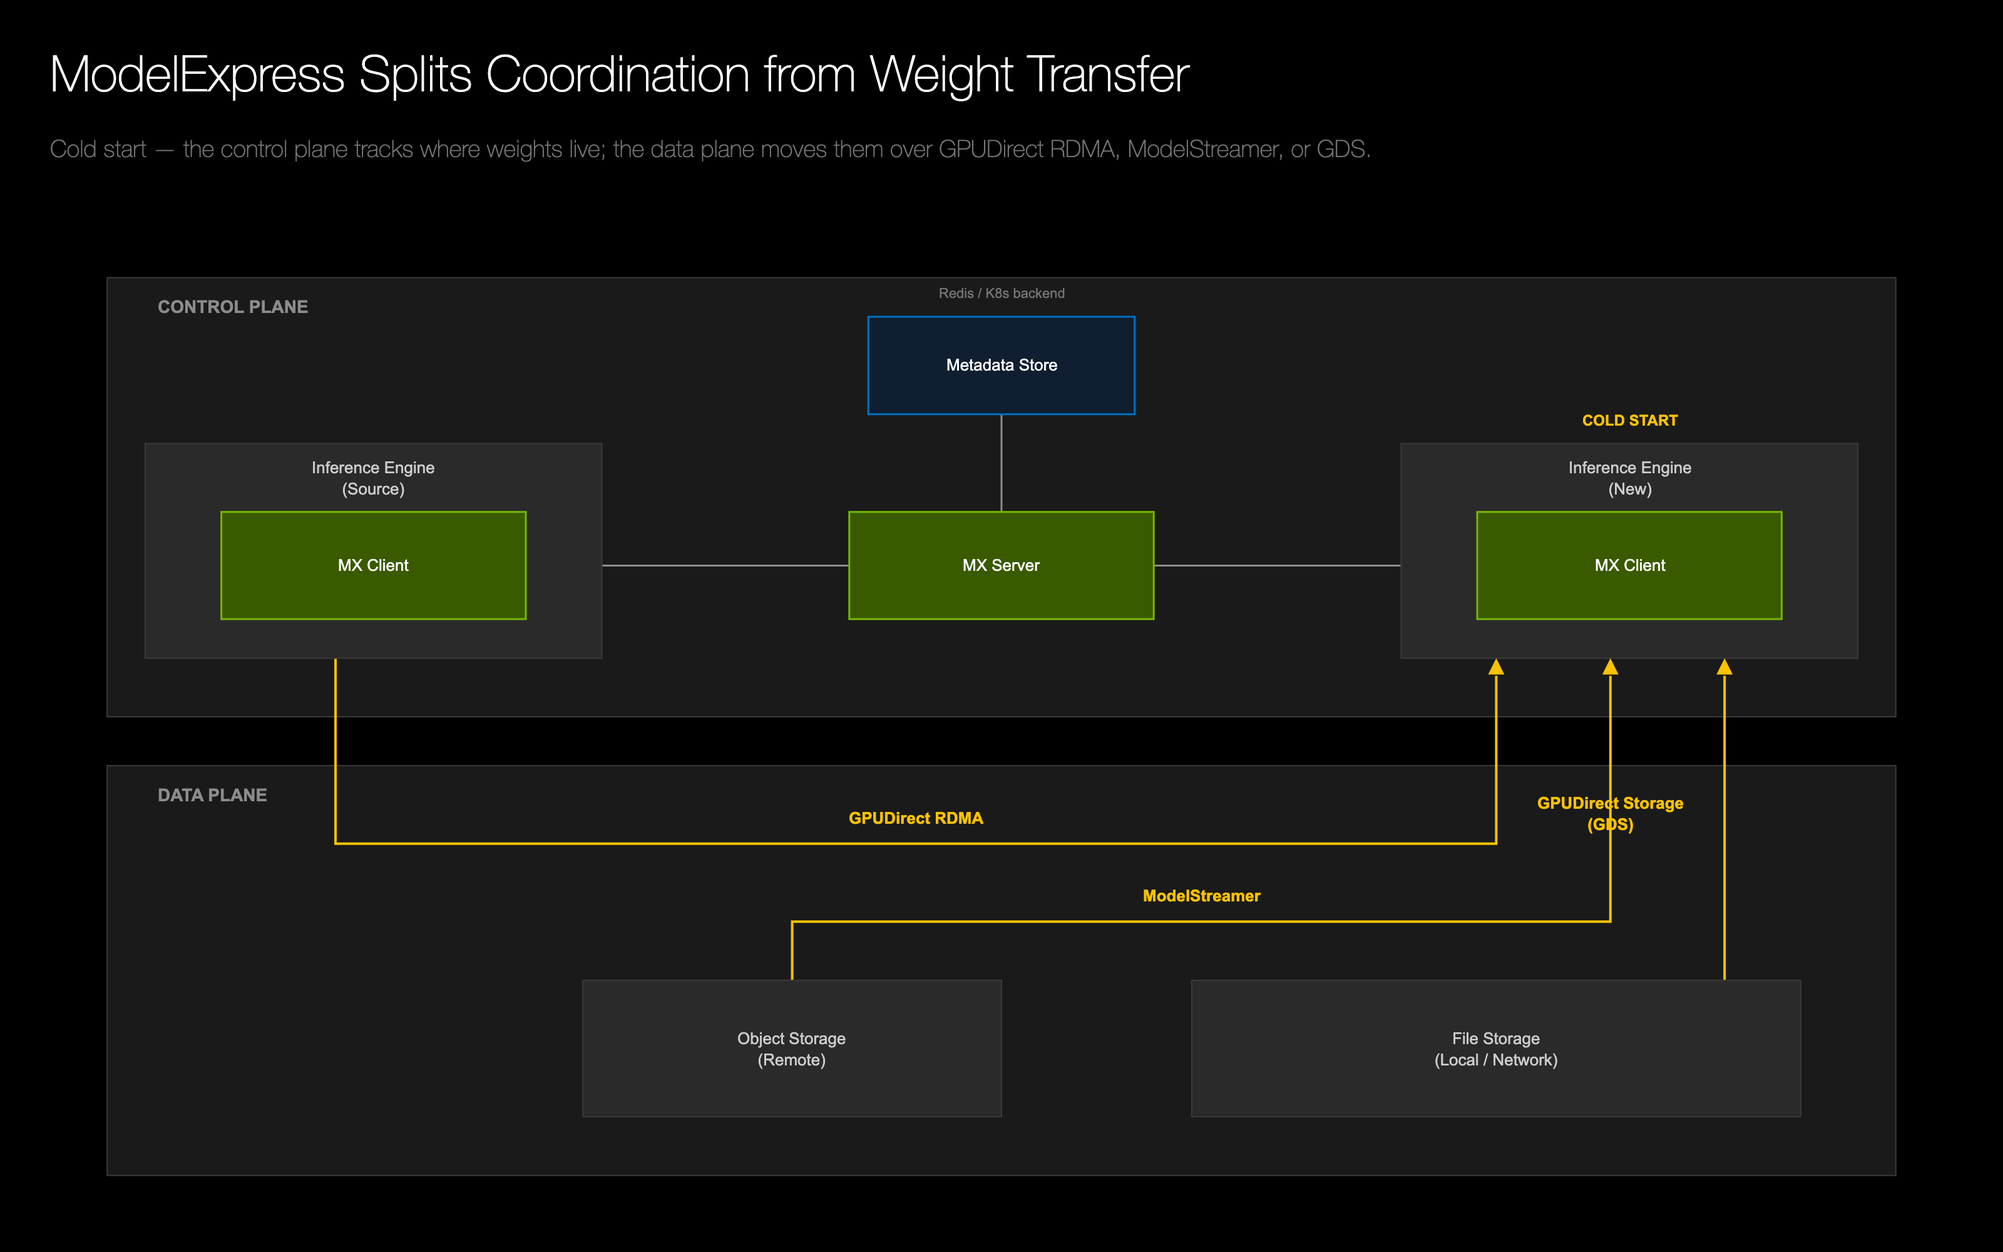
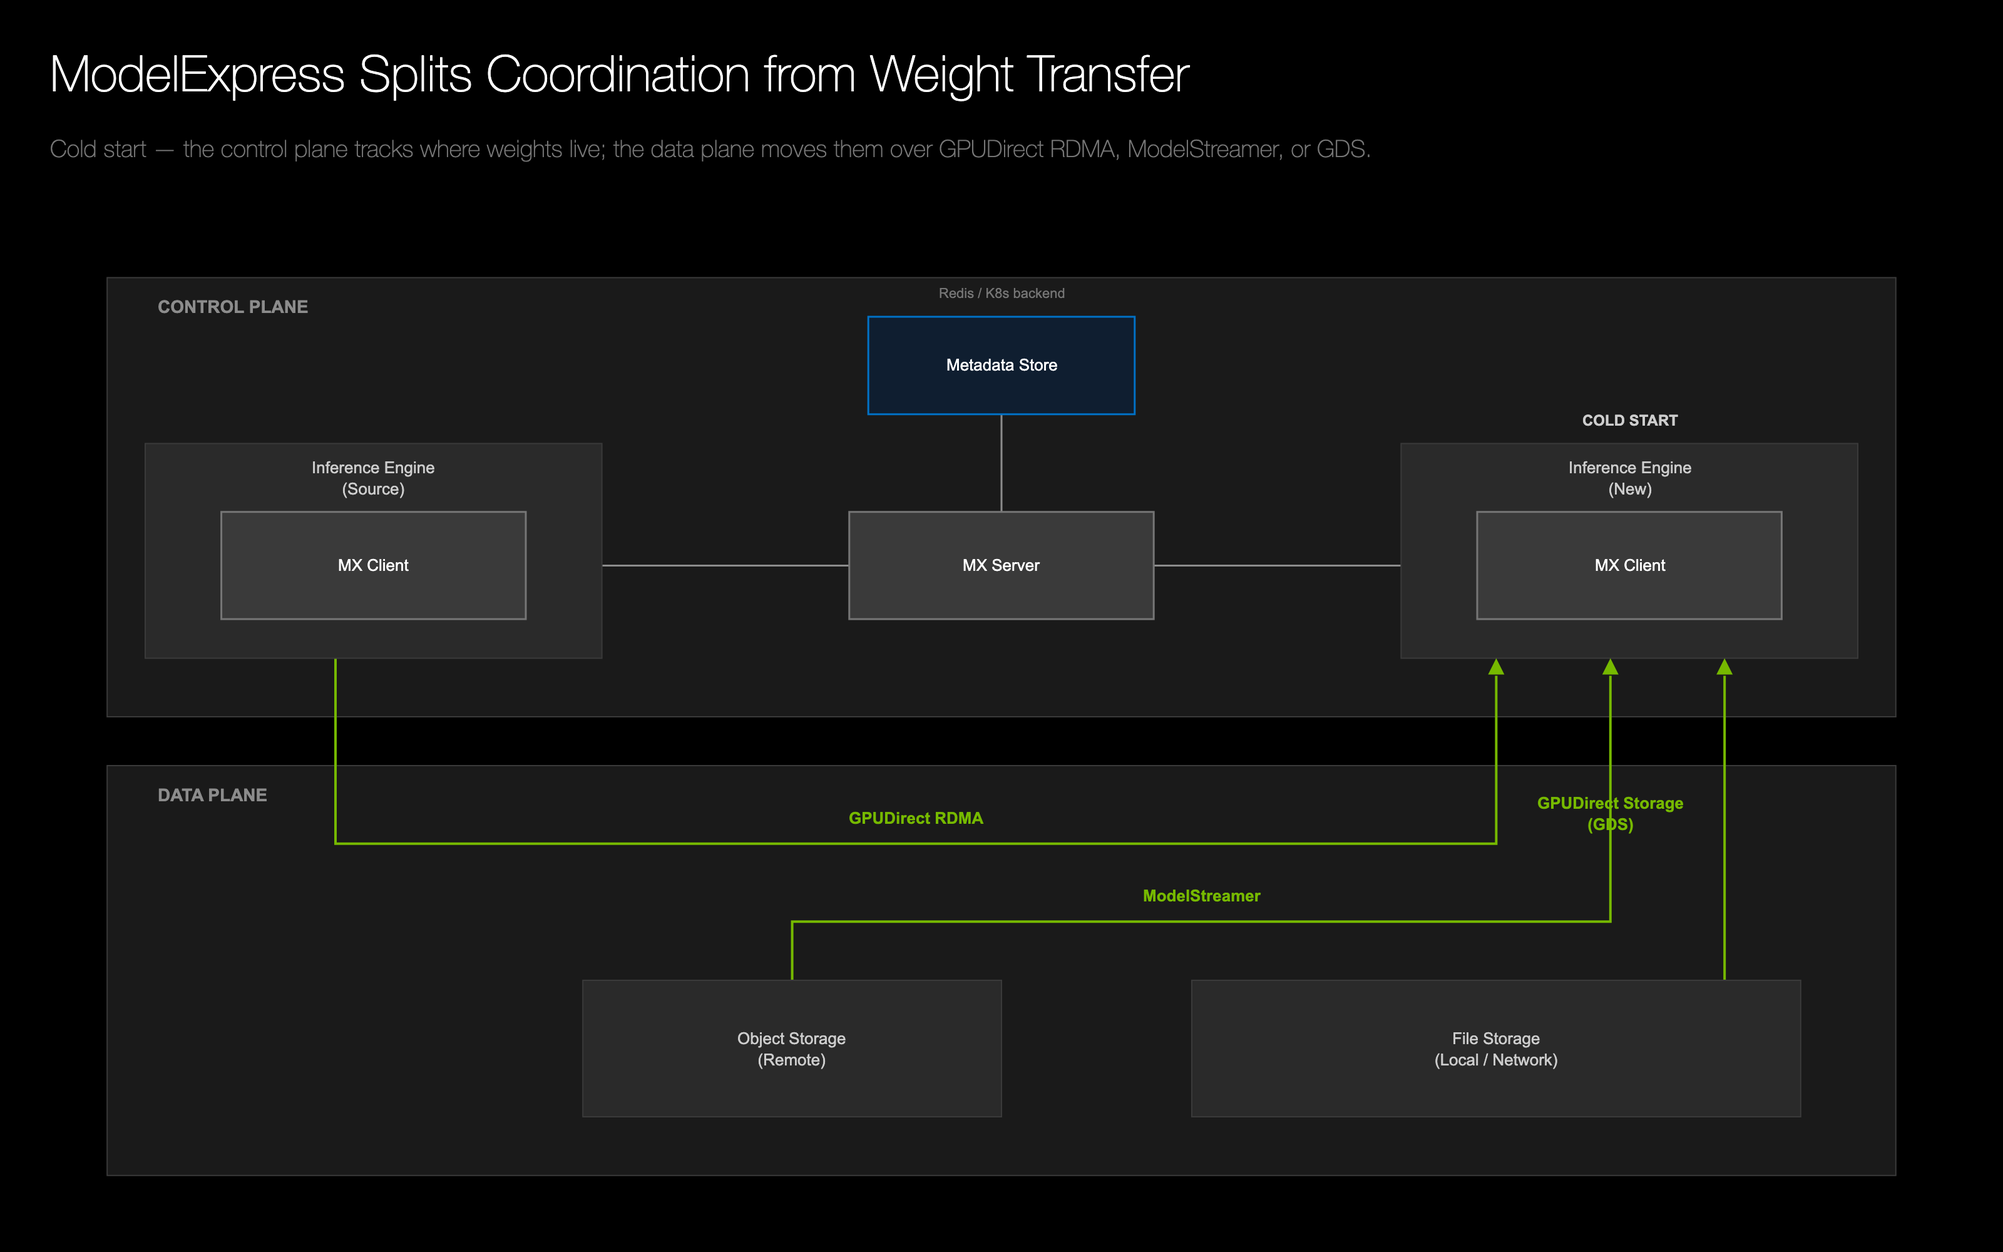
docs(drafts): harmonize color semantics across cold-start figure set
Bring the six ModelExpress / cold-start figures onto one color convention,
anchored by fig-1 (green = the peer-to-peer data-plane weight-transfer flow)
and fig-4 (gold = the warmup phase).

- fig-3: recolor the data-plane weight-transfer flows (GPUDirect RDMA,
  ModelStreamer, GDS) green to match fig-1 and fig-3's own docstring, and give
  the MX Client / MX Server boxes a neutral elevated structural surface instead
  of green fills. Metadata store stays cpu_blue. Docstring + README reconciled.
- fig-6: recolor the cold JIT-cache warmup cluster from coral to gold to match
  fig-4's warmup phase; the MX P2P weight load stays the single green accent.
  In-bar labels are black-on-gold for WCAG AA. Restore the full subtitle
  (fp8 KV cache detail + fuller prose tail) that had been trimmed.
- fig-1, fig-2, fig-4, fig-5: verified against the convention; semantics
  unchanged (green is the hero flow / MX win only; coral is the baseline).
- Emit an SVG for every figure (fig-1 / fig-2 / fig-6 added) for set parity.

Green is now reserved set-wide for the hero data-plane weight-transfer flow /
ModelExpress win; warmup is gold in both fig-4 and fig-6. All six lint at
0 errors, 100.0 / 100.

diff --git a/drafts/modelexpress-coldstart/fig-6/gen_fig_6_coldstart_anatomy.py b/drafts/modelexpress-coldstart/fig-6/gen_fig_6_coldstart_anatomy.py
@@ -8,19 +8,21 @@ start of a DeepSeek-V4-Pro / vLLM deployment into its eight phases, anchored by
 a large "420s" KPI. ModelExpress delivers weights peer-to-peer (Model load via
 MX P2P is only 11 s / 2.6 %, the single green accent), so the cost shifts almost
 entirely to the cold JIT-cache warmup cluster (profiling + DeepGEMM compile +
-CUDA graph capture = 350 s / 83 %, rendered in the coral cost family).
+CUDA graph capture = 350 s / 83 %, rendered in the gold warmup family so it
+reads the same as the warmup phase in fig-4).
 
 Restyle of the reference light-theme breakdown bar into Dynamo Dark:
     - pure-black ground, token palette only, border-radius 0
     - display / hero title treatment (Helvetica Neue Light, title case)
-    - single green accent on the ModelExpress weight-load phase; the warmup
-      cluster carries the coral "cost" role; setup phases recede to grey
+    - single green accent on the ModelExpress weight-load phase (the hero
+      data-plane weight load); the JIT-cache warmup cluster carries the gold
+      "warmup" role, matching fig-4; setup phases recede to grey
     - real seconds x-axis so the minute ticks align exactly to the bar
 
 Data (durations in seconds) is the source of truth; percentages are derived.
 
 Usage:
-    python3 gen_fig_6_coldstart_anatomy.py   # -> images/fig-6-coldstart-anatomy.png
+    python3 gen_fig_6_coldstart_anatomy.py   # -> images/fig-6-coldstart-anatomy.{png,svg}
 """
 
 from __future__ import annotations
@@ -41,8 +43,10 @@ TOTAL_SEC = 420  # observed total, start -> Application startup complete (7m)
 
 # Semantic roles decide color:
 #   grey  -> process / infra setup (recedes)
-#   green -> the ModelExpress win (single accent)
-#   coral -> the cold-JIT-cache warmup cost cluster (peak = brightest coral)
+#   green -> the ModelExpress win (single accent, hero data-plane weight load)
+#   gold  -> the cold-JIT-cache warmup cluster (peak = brightest gold), matching
+#            fig-4's warmup phase; coral stays reserved for a baseline/slow path,
+#            which this single optimized run does not contain
 # Phases in time order. `place`: "in" = label inside the bar; "above" = leader
 # line + marker + duration above the bar (used for the narrow phases).
 SEGMENTS = [
@@ -118,11 +122,11 @@ def main() -> None:
     font_mono = tokens["typography"]["font_family_mono"]
 
     green = colors["accent"]["dynamo_green"]  # ModelExpress win (accent)
-    coral = colors["accent"]["coral"]  # peak warmup phase
-    coral_muted = colors["chart_fills"][7]  # #702828 -- flanking warmup
+    warmup = colors["accent"]["fluorite"]  # peak warmup phase (gold, matches fig-4)
+    warmup_muted = colors["chart_fills"][2]  # #9a7800 -- flanking warmup (muted gold)
     grey = colors["text"]["medium"]  # #8c8c8c -- setup (neutral)
     subtle = colors["border"]["subtle"]  # #3a3a3a -- separators / ticks
-    black = colors["background"]["primary"]  # #000000 -- hairline gaps
+    black = colors["background"]["primary"]  # #000000 -- hairline gaps + in-bar text
     text_primary = colors["text"]["primary"]
     text_secondary = colors["text"]["secondary"]
     text_muted = colors["text"]["muted"]
@@ -130,8 +134,8 @@ def main() -> None:
     role_color = {
         "setup": grey,
         "win": green,
-        "cost": coral_muted,
-        "peak": coral,
+        "cost": warmup_muted,
+        "peak": warmup,
     }
 
     def pct(dur: int) -> float:
@@ -206,8 +210,10 @@ def main() -> None:
                 layer="above",
             )
         )
-        # in-bar label for the wide phases
+        # in-bar label for the wide phases. The wide phases are the gold warmup
+        # cluster, so the label sits black-on-gold (AA on both gold shades).
         if s["place"] == "in":
+            in_label_color = black if s["role"] in ("cost", "peak") else text_primary
             annotations.append(
                 dict(
                     xref="x",
@@ -219,7 +225,7 @@ def main() -> None:
                     text=f"{s['inbar']} · {s['dur']}s",
                     showarrow=False,
                     font=dict(
-                        family=font_mono, size=15, color=text_primary, weight=500
+                        family=font_mono, size=15, color=in_label_color, weight=500
                     ),
                 )
             )
@@ -431,9 +437,9 @@ def main() -> None:
             font=dict(family=HERO_FONT, size=40, color=text_primary, weight=300),
             subtitle=dict(
                 text=(
-                    "DeepSeek-V4-Pro · vLLM 0.23.0 · TP8 + EP on one 8-GPU "
-                    "node · load_format=modelexpress — weights arrive P2P, "
-                    "JIT caches start cold."
+                    "DeepSeek-V4-Pro · vLLM 0.23.0 · TP8 + EP + fp8 KV cache "
+                    "on one 8-GPU node · load_format=modelexpress — weights "
+                    "arrive peer-to-peer, but every JIT kernel cache starts empty."
                 ),
                 font=dict(family=HERO_FONT, size=19, color=text_muted, weight=300),
             ),
@@ -452,10 +458,14 @@ def main() -> None:
         showlegend=False,
     )
 
-    out = Path(__file__).parent / "images" / "fig-6-coldstart-anatomy.png"
-    out.parent.mkdir(parents=True, exist_ok=True)
-    fig.write_image(str(out), scale=2)
-    print(f"Wrote {out}")
+    out_dir = Path(__file__).parent / "images"
+    out_dir.mkdir(parents=True, exist_ok=True)
+    png = out_dir / "fig-6-coldstart-anatomy.png"
+    svg = out_dir / "fig-6-coldstart-anatomy.svg"
+    fig.write_image(str(png), scale=2)
+    fig.write_image(str(svg))
+    print(f"Wrote {png}")
+    print(f"Wrote {svg}")
 
 
 if __name__ == "__main__":

diff --git a/drafts/modelexpress-coldstart/fig-3/gen_fig_3_modelexpress.py b/drafts/modelexpress-coldstart/fig-3/gen_fig_3_modelexpress.py
@@ -20,9 +20,13 @@ Dynamo Dark rethink:
     black, so the plane separation reads structurally instead of via tinted
     backgrounds.
   - Green (#76b900) is the single selective accent, reserved for the
-    ModelExpress software components (MX Server + MX Clients) — the subject.
-  - Emerald marks the metadata database; fluorite carries the data-plane
-    weight-transfer flows; thin grey lines carry recessive control wiring.
+    data-plane weight-transfer flows (GPUDirect RDMA + ModelStreamer + GDS) —
+    the fast path ModelExpress accelerates, matching fig-1's data-plane green.
+  - The ModelExpress software components (MX Server + MX Clients) take a
+    neutral, elevated structural surface (never green fills), so green stays
+    the one thing that reads as the accelerated flow.
+  - cpu_blue marks the control-plane metadata store; thin grey lines carry the
+    recessive control wiring.
   - All connectors are orthogonal (right angles only); every coordinate is
     computed from named constants; the three data paths converge on the New
     engine's bottom edge with arrowheads on exact edges.
@@ -147,18 +151,17 @@ def main() -> None:
     template = build_template(tokens)
     colors = tokens["colors"]
 
-    green = colors["accent"]["dynamo_green"]  # ModelExpress components
-    green_fill = colors["fills"]["green"]
+    green = colors["accent"]["dynamo_green"]  # data-plane weight-transfer flows
     cpu_blue = colors["accent"]["cpu_blue"]  # control-plane metadata store
     blue_fill = colors["fills"]["blue"]
-    fluorite = colors["accent"]["fluorite"]  # data-plane weight flows
     subtle = colors["border"]["subtle"]  # hairline borders
     surface = colors["background"]["surface"]  # plane band fill
     surface_alt = colors["background"]["surface_alt"]  # component card fill
+    elevated = colors["background"]["elevated"]  # MX component cards (neutral)
     text_primary = colors["text"]["primary"]
     text_secondary = colors["text"]["secondary"]
     text_medium = colors["text"]["medium"]
-    text_muted = colors["text"]["muted"]
+    text_muted = colors["text"]["muted"]  # neutral border for MX component cards
 
     fig = go.Figure()
     shapes: list[dict] = []
@@ -226,7 +229,7 @@ def main() -> None:
     SRC_CLIENT = (9.0, MX_Y0, 25.0, MX_Y1)
     NEW_CLIENT = (75.0, MX_Y0, 91.0, MX_Y1)
     for x0, y0, x1, y1 in (SRC_CLIENT, NEW_CLIENT):
-        _box(shapes, x0, y0, x1, y1, border=green, fill=green_fill, width=1.5)
+        _box(shapes, x0, y0, x1, y1, border=text_muted, fill=elevated, width=1.5)
         _label(
             annotations,
             (x0 + x1) / 2,
@@ -239,7 +242,7 @@ def main() -> None:
 
     # MX Server (center).
     SRV = (42.0, MX_Y0, 58.0, MX_Y1)
-    _box(shapes, *SRV, border=green, fill=green_fill, width=1.5)
+    _box(shapes, *SRV, border=text_muted, fill=elevated, width=1.5)
     _label(
         annotations,
         (SRV[0] + SRV[2]) / 2,
@@ -324,7 +327,7 @@ def main() -> None:
             (TIP_RDMA, y_rdma),
             (TIP_RDMA, NEW_BOTTOM),
         ],
-        color=fluorite,
+        color=green,
     )
 
     # ModelStreamer: Object storage → New engine.
@@ -334,11 +337,11 @@ def main() -> None:
         fig,
         annotations,
         [(obj_cx, OBJ[3]), (obj_cx, y_ms), (TIP_MS, y_ms), (TIP_MS, NEW_BOTTOM)],
-        color=fluorite,
+        color=green,
     )
 
     # GPUDirect Storage (GDS): File storage → New engine (straight vertical).
-    _flow(fig, annotations, [(TIP_GDS, FILE[3]), (TIP_GDS, NEW_BOTTOM)], color=fluorite)
+    _flow(fig, annotations, [(TIP_GDS, FILE[3]), (TIP_GDS, NEW_BOTTOM)], color=green)
 
     # Flow labels (bound to the fluorite flow color).
     _label(
@@ -346,7 +349,7 @@ def main() -> None:
         (src_out_x + TIP_RDMA) / 2,
         y_rdma + 2.6,
         "<b>GPUDirect RDMA</b>",
-        color=fluorite,
+        color=green,
         size=13,
         weight=700,
     )
@@ -355,7 +358,7 @@ def main() -> None:
         (obj_cx + TIP_MS) / 2,
         y_ms + 2.6,
         "<b>ModelStreamer</b>",
-        color=fluorite,
+        color=green,
         size=13,
         weight=700,
     )
@@ -364,7 +367,7 @@ def main() -> None:
         TIP_GDS - 2.0,
         41.0,
         "<b>GPUDirect Storage<br>(GDS)</b>",
-        color=fluorite,
+        color=green,
         size=13,
         weight=700,
         anchor="right",
@@ -376,7 +379,7 @@ def main() -> None:
         (NEW[0] + NEW[2]) / 2,
         NEW[3] + 2.4,
         "<b>COLD START</b>",
-        color=fluorite,
+        color=text_secondary,
         size=12,
         weight=700,
     )

diff --git a/drafts/modelexpress-coldstart/fig-1/gen_fig_1_coldstart_sequence.py b/drafts/modelexpress-coldstart/fig-1/gen_fig_1_coldstart_sequence.py
@@ -27,7 +27,7 @@ case). All labels are protocol/API terms carried over from the reference
 tensor descriptors) -- no invented numbers. Renders deterministically.
 
 Usage:
-    python3 gen_fig_1_coldstart_sequence.py   # -> images/fig-1-modelexpress-coldstart.png
+    python3 gen_fig_1_coldstart_sequence.py   # -> images/fig-1-modelexpress-coldstart.{png,svg}
 """
 
 from __future__ import annotations
@@ -455,10 +455,14 @@ def main() -> None:
         showlegend=False,
     )
 
-    out = Path(__file__).parent / "images" / "fig-1-modelexpress-coldstart.png"
-    out.parent.mkdir(parents=True, exist_ok=True)
-    fig.write_image(str(out), scale=2)
-    print(f"Wrote {out}")
+    out_dir = Path(__file__).parent / "images"
+    out_dir.mkdir(parents=True, exist_ok=True)
+    png = out_dir / "fig-1-modelexpress-coldstart.png"
+    svg = out_dir / "fig-1-modelexpress-coldstart.svg"
+    fig.write_image(str(png), scale=2)
+    fig.write_image(str(svg))
+    print(f"Wrote {png}")
+    print(f"Wrote {svg}")
 
 
 if __name__ == "__main__":

diff --git a/drafts/modelexpress-coldstart/fig-2/gen_fig_2_rl_loop.py b/drafts/modelexpress-coldstart/fig-2/gen_fig_2_rl_loop.py
@@ -24,7 +24,7 @@ Title uses the Dynamo Dark display/hero treatment (Helvetica Neue Light,
 title case). Renders deterministically; no external data.
 
 Usage:
-    python3 gen_fig_2_rl_loop.py        # -> images/fig-2-rl-loop.png
+    python3 gen_fig_2_rl_loop.py        # -> images/fig-2-rl-loop.{png,svg}
 """
 
 from __future__ import annotations
@@ -210,10 +210,14 @@ def main() -> None:
         annotations=annotations,
     )
 
-    out = Path(__file__).parent / "images" / "fig-2-rl-loop.png"
-    out.parent.mkdir(parents=True, exist_ok=True)
-    fig.write_image(str(out), scale=2)
-    print(f"Wrote {out}")
+    out_dir = Path(__file__).parent / "images"
+    out_dir.mkdir(parents=True, exist_ok=True)
+    png = out_dir / "fig-2-rl-loop.png"
+    svg = out_dir / "fig-2-rl-loop.svg"
+    fig.write_image(str(png), scale=2)
+    fig.write_image(str(svg))
+    print(f"Wrote {png}")
+    print(f"Wrote {svg}")
 
 
 if __name__ == "__main__":

diff --git a/drafts/modelexpress-coldstart/fig-6/README.md b/drafts/modelexpress-coldstart/fig-6/README.md
@@ -6,13 +6,14 @@ reference light-theme figure into the **Dynamo Dark** aesthetic.
 **Takeaway:** ModelExpress delivers weights peer-to-peer in 11 s (2.6 %, the
 single green accent), so the 420 s cold start is now dominated by the cold
 JIT-cache warmup cluster — profiling + DeepGEMM compile + CUDA graph capture =
-350 s / 83 % — rendered in the coral "cost" family.
+350 s / 83 % — rendered in the gold "warmup" family (matching fig-4).
 
 ## Figure Inventory
 
 | File | Description |
 |---|---|
 | `images/fig-6-coldstart-anatomy.png` | Stacked single-row cold-start timeline with a 420 s KPI, 8 labeled phases, minute ticks, and a two-column breakdown legend (1600×840 @2x) |
+| `images/fig-6-coldstart-anatomy.svg` | Vector render (for Fern / Confluence embedding) |
 
 ## Type & Pathway
 
@@ -30,15 +31,17 @@ Phase durations in seconds; percentages derived (`dur / 420`). Order is time ord
 | Engine config & core spawn | 14 s | 3.3 % | setup → grey |
 | Worker spawn & distributed init | 17 s | 4.0 % | setup → grey |
 | Model load via MX P2P | 11 s | 2.6 % | **MX win → green (single accent)** |
-| Memory profiling (JIT wave) | 100 s | 23.8 % | cost → coral (muted) |
-| JIT warmup (DeepGEMM compile) | 142 s | 33.8 % | cost peak → coral |
-| CUDA graph capture | 108 s | 25.7 % | cost → coral (muted) |
+| Memory profiling (JIT wave) | 100 s | 23.8 % | warmup → gold (muted) |
+| JIT warmup (DeepGEMM compile) | 142 s | 33.8 % | warmup peak → gold |
+| CUDA graph capture | 108 s | 25.7 % | warmup → gold (muted) |
 | API server ready | 1 s | 0.2 % | setup → grey |
 | **Total** | **420 s (7 m)** | | |
 
 Color encodes role: grey recedes for process/infra setup, green marks the single
-ModelExpress win, and the coral family carries the cold-JIT-cache cost cluster
-(the peak DeepGEMM phase is the brightest coral).
+ModelExpress win, and the gold warmup family carries the cold-JIT-cache cluster
+(the peak DeepGEMM phase is the brightest gold) — the same gold used for the
+warmup phase in fig-4. Coral stays reserved for a baseline/slow path, which this
+single optimized run does not contain.
 
 ## Reproduce
 

diff --git a/drafts/modelexpress-coldstart/fig-3/README.md b/drafts/modelexpress-coldstart/fig-3/README.md
@@ -38,10 +38,14 @@ Dynamo Dark remake of the ModelExpress (MX) cold-start reference diagram.
   `layer="below"`) express the plane split structurally instead of via tinted
   backgrounds.
 - **Green** (`#76b900`) is the single selective accent — reserved for the
-  ModelExpress software components (MX Server + MX Clients), the subject.
-- **cpu_blue** marks the control-plane Metadata Store; **fluorite** carries the
-  data-plane weight-transfer flows. (Emerald was avoided next to NV green per
-  DESIGN.md; the three roles are three distinct hues.)
+  data-plane weight-transfer flows (GPUDirect RDMA + ModelStreamer + GDS), the
+  fast path ModelExpress accelerates. This matches fig-1, where green is the
+  peer-to-peer data-plane flow.
+- The ModelExpress software components (MX Server + MX Clients) take a neutral,
+  elevated structural surface (`#3a3a3a` card fill, muted-grey border) — never a
+  green fill — so green stays the one thing that reads as the accelerated flow.
+- **cpu_blue** marks the control-plane Metadata Store; thin grey lines carry the
+  recessive control wiring.
 - All connectors are orthogonal (right angles only); every coordinate is computed
   from named constants; the three data paths land on the New engine's bottom edge
   with arrowheads on exact edges.

diff --git a/drafts/modelexpress-coldstart/fig-2/README.md b/drafts/modelexpress-coldstart/fig-2/README.md
@@ -6,10 +6,11 @@ loop figure.
 | File | Description |
 |---|---|
 | `gen_fig_2_rl_loop.py` | Generator: 2x2 clockwise RL loop (Rollout → Reward → Trainer → Weight refit) with ModelExpress as the single green accent. Display/hero title treatment. |
-| `build.sh` | One-shot rebuild. Renders `images/fig-2-rl-loop.png`. |
+| `build.sh` | One-shot rebuild. Renders `images/fig-2-rl-loop.{png,svg}`. |
 | `design_tokens.yaml` | Canonical Dynamo Dark tokens (copied, not forked). |
 | `plotly_dynamo.py` | Canonical Plotly template helper (copied, not forked). |
 | `images/fig-2-rl-loop.png` | Rendered figure (1600×900, scale=2). |
+| `images/fig-2-rl-loop.svg` | Vector render (for Fern / Confluence embedding). |
 
 ## Reproduce
 

diff --git a/drafts/modelexpress-coldstart/fig-1/README.md b/drafts/modelexpress-coldstart/fig-1/README.md
@@ -12,6 +12,7 @@ server entirely).
 |---|---|---|
 | `gen_fig_1_coldstart_sequence.py` | Sequence diagram: source registers → target discovers → RDMA weight transfer, GPU to GPU | Display (Helvetica Neue Light) |
 | `images/fig-1-modelexpress-coldstart.png` | Rendered PNG (1600 px wide hero, `scale=2`) | — |
+| `images/fig-1-modelexpress-coldstart.svg` | Vector render (for Fern / Confluence embedding) | — |
 
 ## Single Takeaway
 
